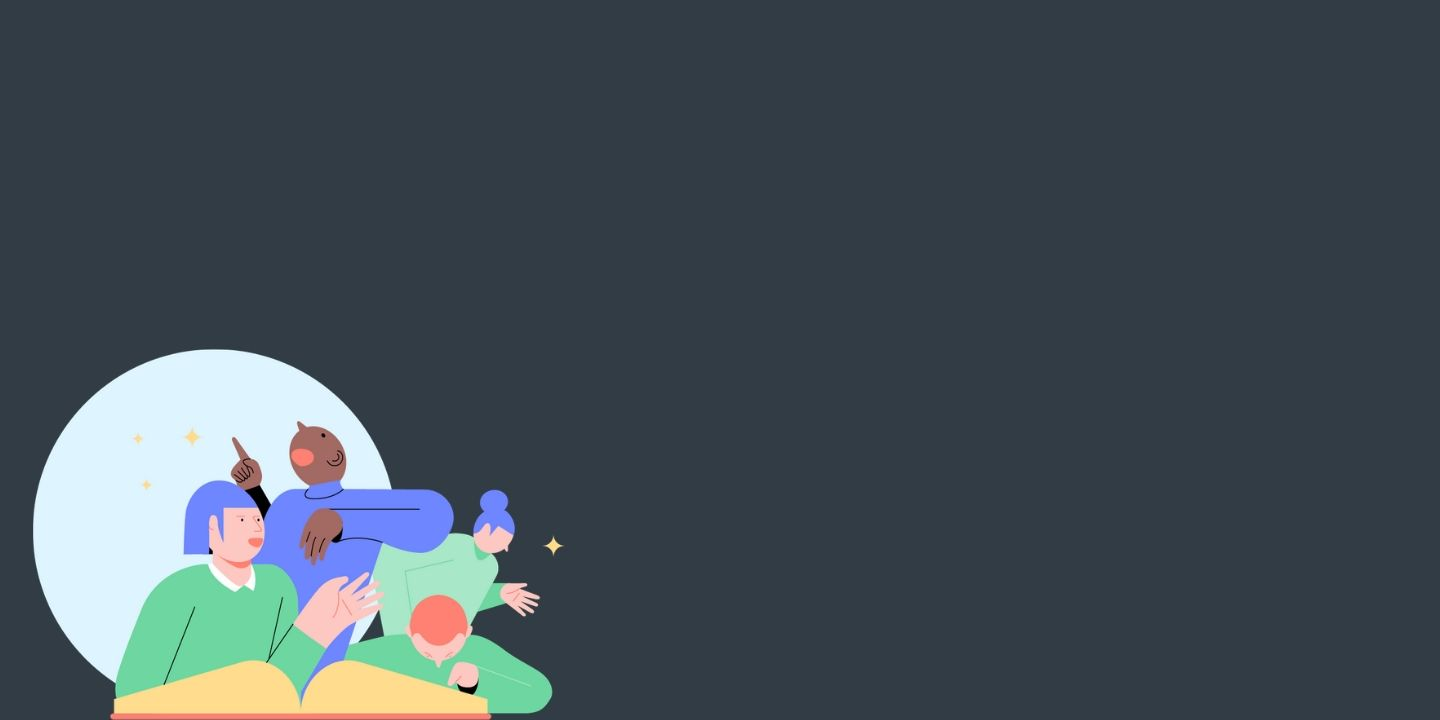
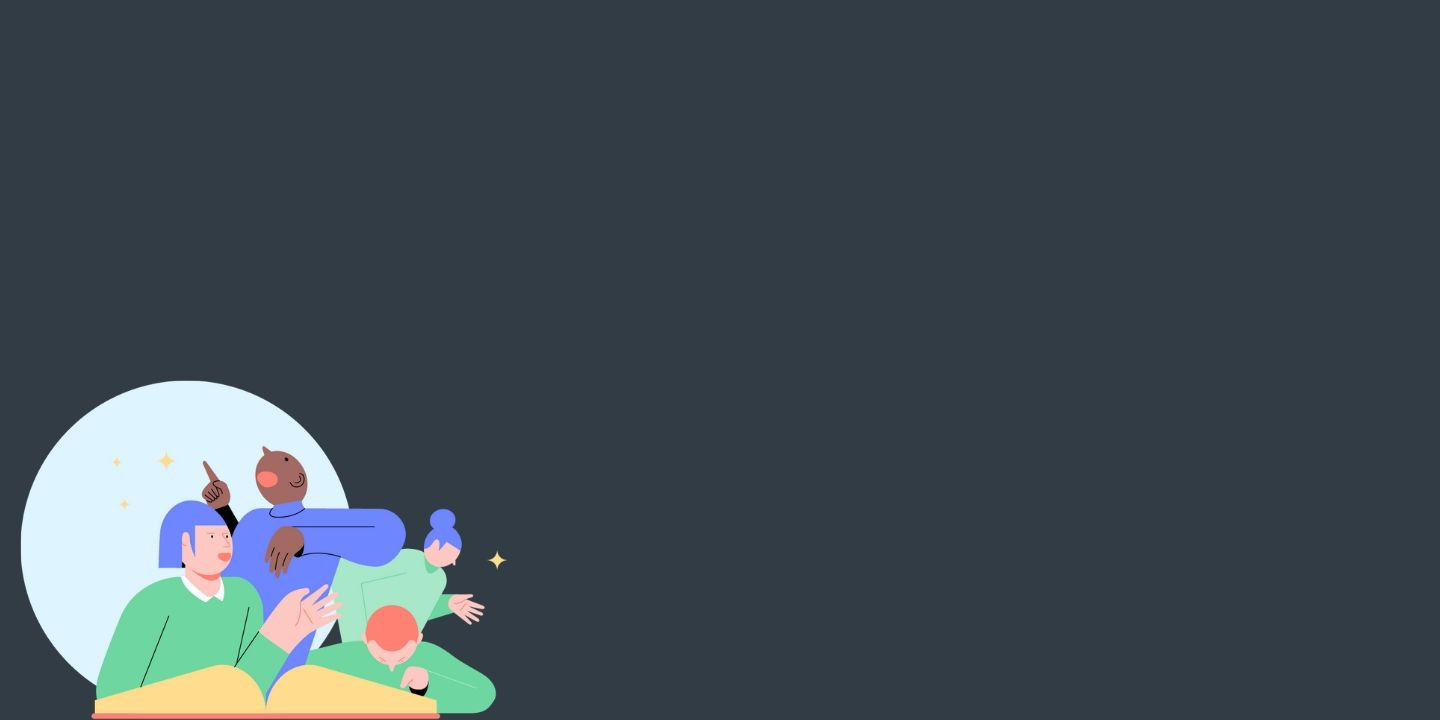
changed header

diff --git a/css/style.css b/css/style.css
@@ -17,7 +17,7 @@ button:focus {
     background: url('header.jpg');
     background-size: cover;
     background-repeat: no-repeat;
-    background-position: center center;
+    background-position: center bottom;
     height: 60vh;
     border-radius: 0!important;
 
